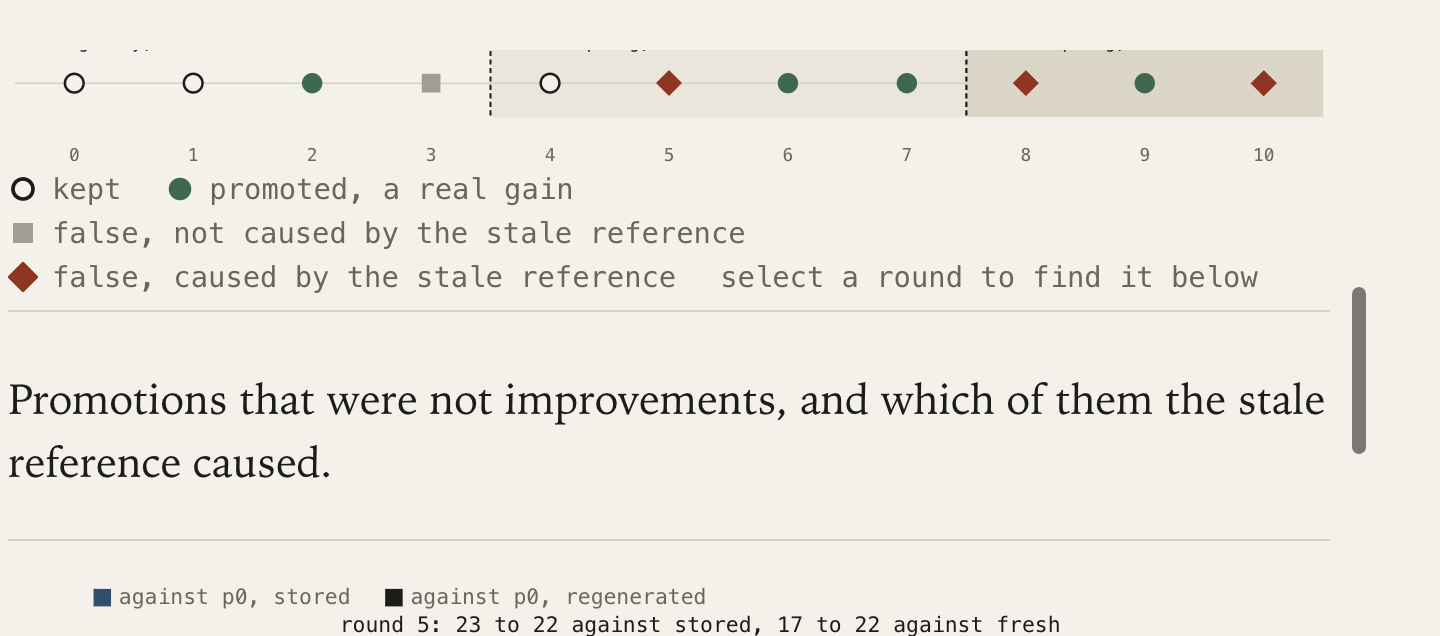
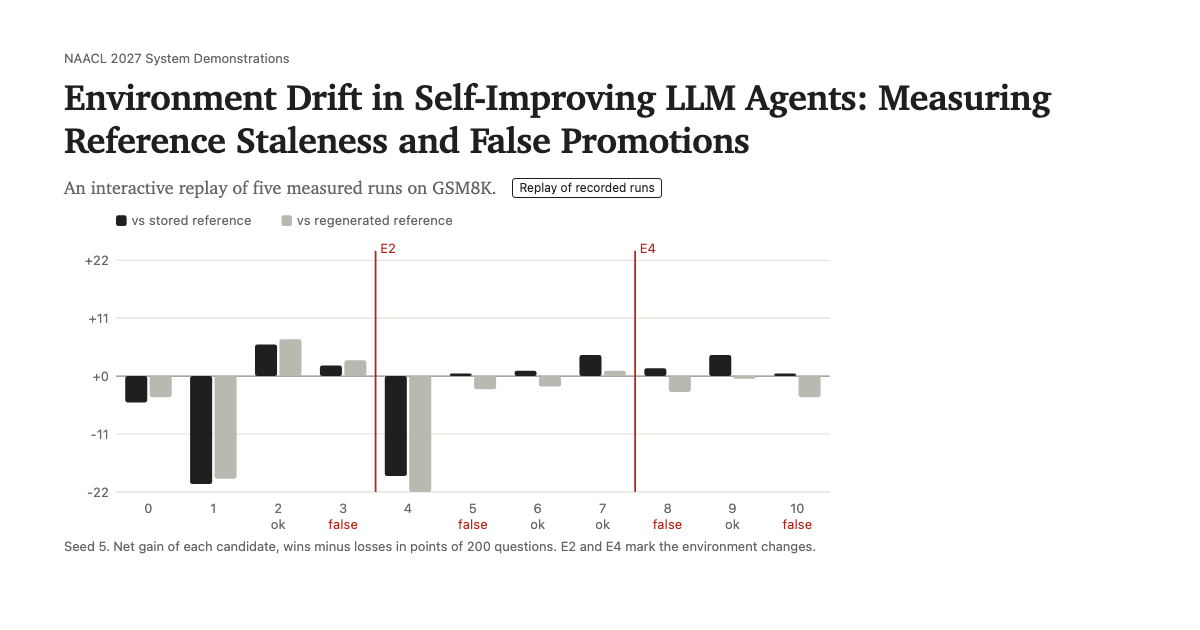
Add replay tag by run picker and new 1200x630 link preview

diff --git a/index.html b/index.html
@@ -9,9 +9,12 @@
 <meta property="og:title" content="Environment Drift in Self-Improving LLM Agents: an interactive demo">
 <meta property="og:description" content="A replay of five measured GSM8K runs in which a stale reference lets weaker instructions through.">
 <meta property="og:image" content="https://anupama-27.github.io/environment-drift-demo/media/preview.png">
+<meta property="og:image:width" content="1200">
+<meta property="og:image:height" content="630">
+<meta property="og:image:alt" content="Environment Drift in Self-Improving LLM Agents, with a chart of net gain per round against a stored and a regenerated reference">
 <meta name="twitter:card" content="summary_large_image">
 <link rel="icon" href="favicon.svg" type="image/svg+xml">
-<link rel="stylesheet" href="style.css?v=4">
+<link rel="stylesheet" href="style.css?v=6">
 </head>
 <body>
 <a class="skip" href="#stage">Skip to the demo</a>
@@ -29,7 +32,7 @@
 <nav class="steps" aria-label="Demo steps">
   <ol id="stepnav"></ol>
   <div class="seedpick">
-    <div><label for="seed">Run</label> <select id="seed"></select></div>
+    <div><span class="replaytag">Replay of recorded runs</span> <label for="seed">Run</label> <select id="seed"></select></div>
     <p class="footnote" id="runnote"></p>
   </div>
 </nav>

diff --git a/style.css b/style.css
@@ -49,6 +49,7 @@ h1 { font-size: 30px; line-height: 1.2; font-weight: 600; letter-spacing: -0.01e
 .seedpick { display: flex; flex-direction: column; align-items: flex-end; gap: 4px; flex: none; font-size: 14px; }
 .seedpick > div { display: flex; align-items: center; gap: 8px; }
 #runnote { max-width: 240px; text-align: right; }
+.replaytag { padding: 0 6px; border: 1px solid var(--ink); border-radius: 3px; font: 12px/18px var(--sans); white-space: nowrap; }
 .seedpick label { color: var(--muted); }
 .seedpick select { font-size: 14px; padding: 4px 8px; border: 1px solid #bdbdb6; border-radius: 4px; background: #fff; }
 
